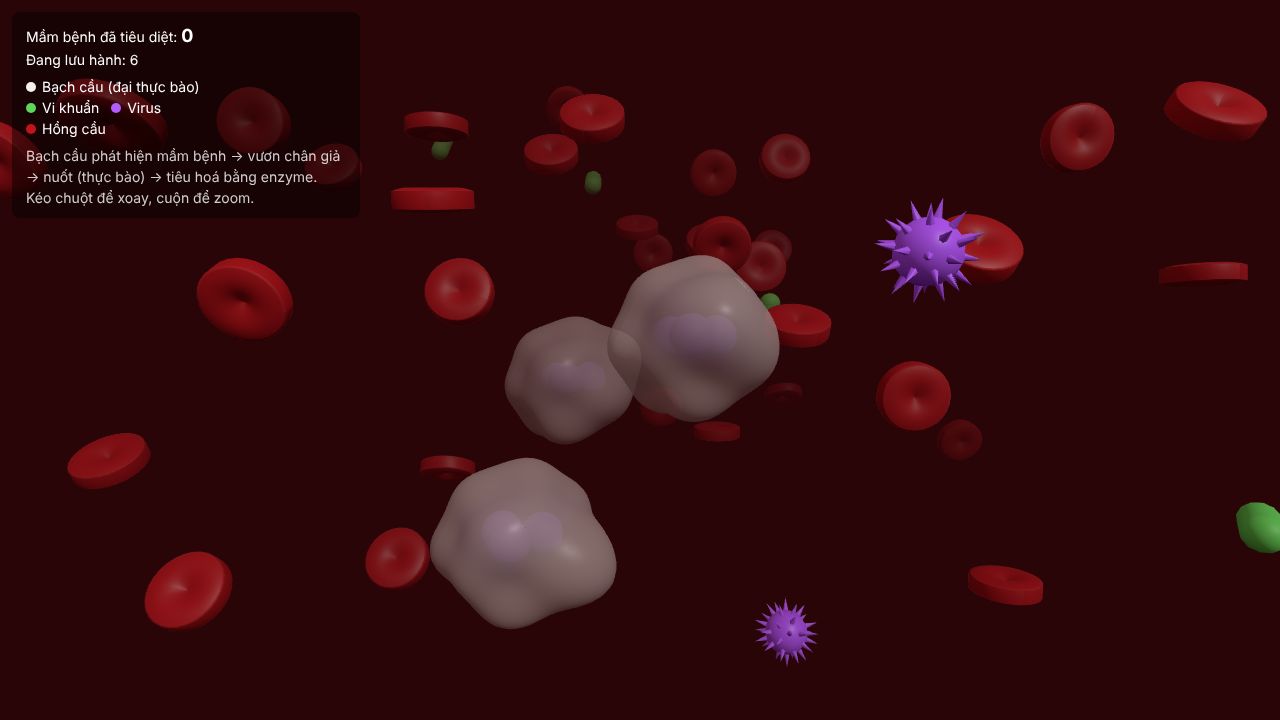
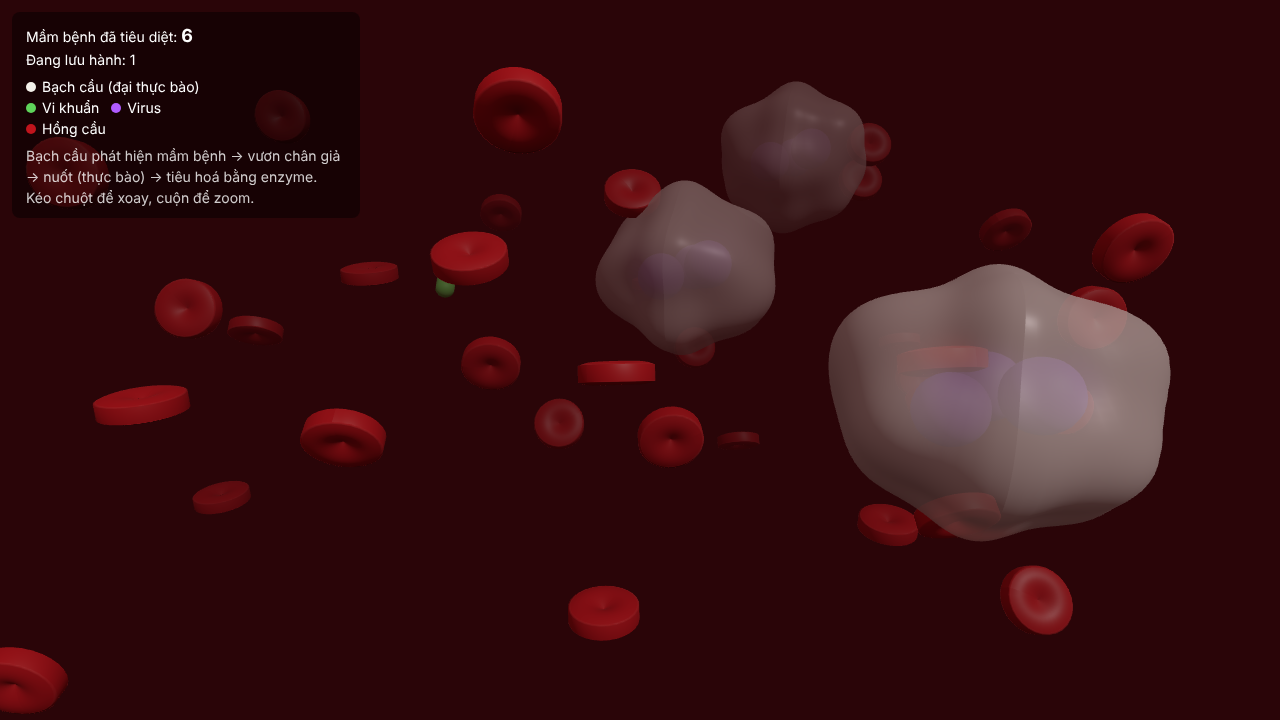
feat: make white blood cells larger and faster in prototype
Radius 2 -> 3, pseudopod reach 1.8 -> 2.5, speed 3 -> 5, quicker
steering; nucleus lobes scale with radius. Screenshot refreshed.

Task: prototypes/white-blood-cell/README.md

Claude-Session: https://claude.ai/code/session_01FvHWh8zZAdvCHjPyPm97s4

diff --git a/prototypes/white-blood-cell/index.html b/prototypes/white-blood-cell/index.html
@@ -37,7 +37,7 @@ import { OrbitControls } from 'three/addons/controls/OrbitControls.js';
 
 // Tuning (prototype: kept in one place instead of external config)
 const CFG = {
-  wbcCount: 3, wbcSpeed: 3, wbcRadius: 2, reach: 1.8,
+  wbcCount: 3, wbcSpeed: 5, wbcRadius: 3, reach: 2.5,
   maxPathogens: 14, spawnEvery: 1.6, digestTime: 2.5,
   rbcCount: 35, arena: 12,
 };
@@ -105,8 +105,8 @@ for (let i = 0; i < CFG.wbcCount; i++) {
   group.add(membrane);
   const nucMat = new THREE.MeshStandardMaterial({ color: 0x6a2c9e, roughness: 0.6 });
   for (let k = 0; k < 3; k++) { // multi-lobed nucleus, like a neutrophil
-    const lobe = new THREE.Mesh(new THREE.SphereGeometry(0.55, 20, 16), nucMat);
-    lobe.position.set(Math.cos(k * 2.1) * 0.65, Math.sin(k * 1.7) * 0.3, Math.sin(k * 2.1) * 0.65);
+    const lobe = new THREE.Mesh(new THREE.SphereGeometry(0.28 * CFG.wbcRadius, 20, 16), nucMat);
+    lobe.position.set(Math.cos(k * 2.1) * 0.33 * CFG.wbcRadius, Math.sin(k * 1.7) * 0.15 * CFG.wbcRadius, Math.sin(k * 2.1) * 0.33 * CFG.wbcRadius);
     group.add(lobe);
   }
   group.position.copy(randInArena(0.6));
@@ -221,7 +221,7 @@ function step() {
       _tmp.subVectors(w.target.mesh.position, w.group.position);
       const dist = _tmp.length();
       w.dir.lerp(_tmp.normalize(), Math.min(1, dt * 4)).normalize();
-      w.vel.lerp(_tmp.multiplyScalar(CFG.wbcSpeed), dt * 2);
+      w.vel.lerp(_tmp.multiplyScalar(CFG.wbcSpeed), dt * 3);
       goalStretch = dist < 5 ? 1 : 0.3;
       if (dist < CFG.wbcRadius + CFG.reach * 0.9) { // pseudopod reached it → phagocytosis
         w.target.state = 'eaten'; w.target.by = w; w.target = null;
